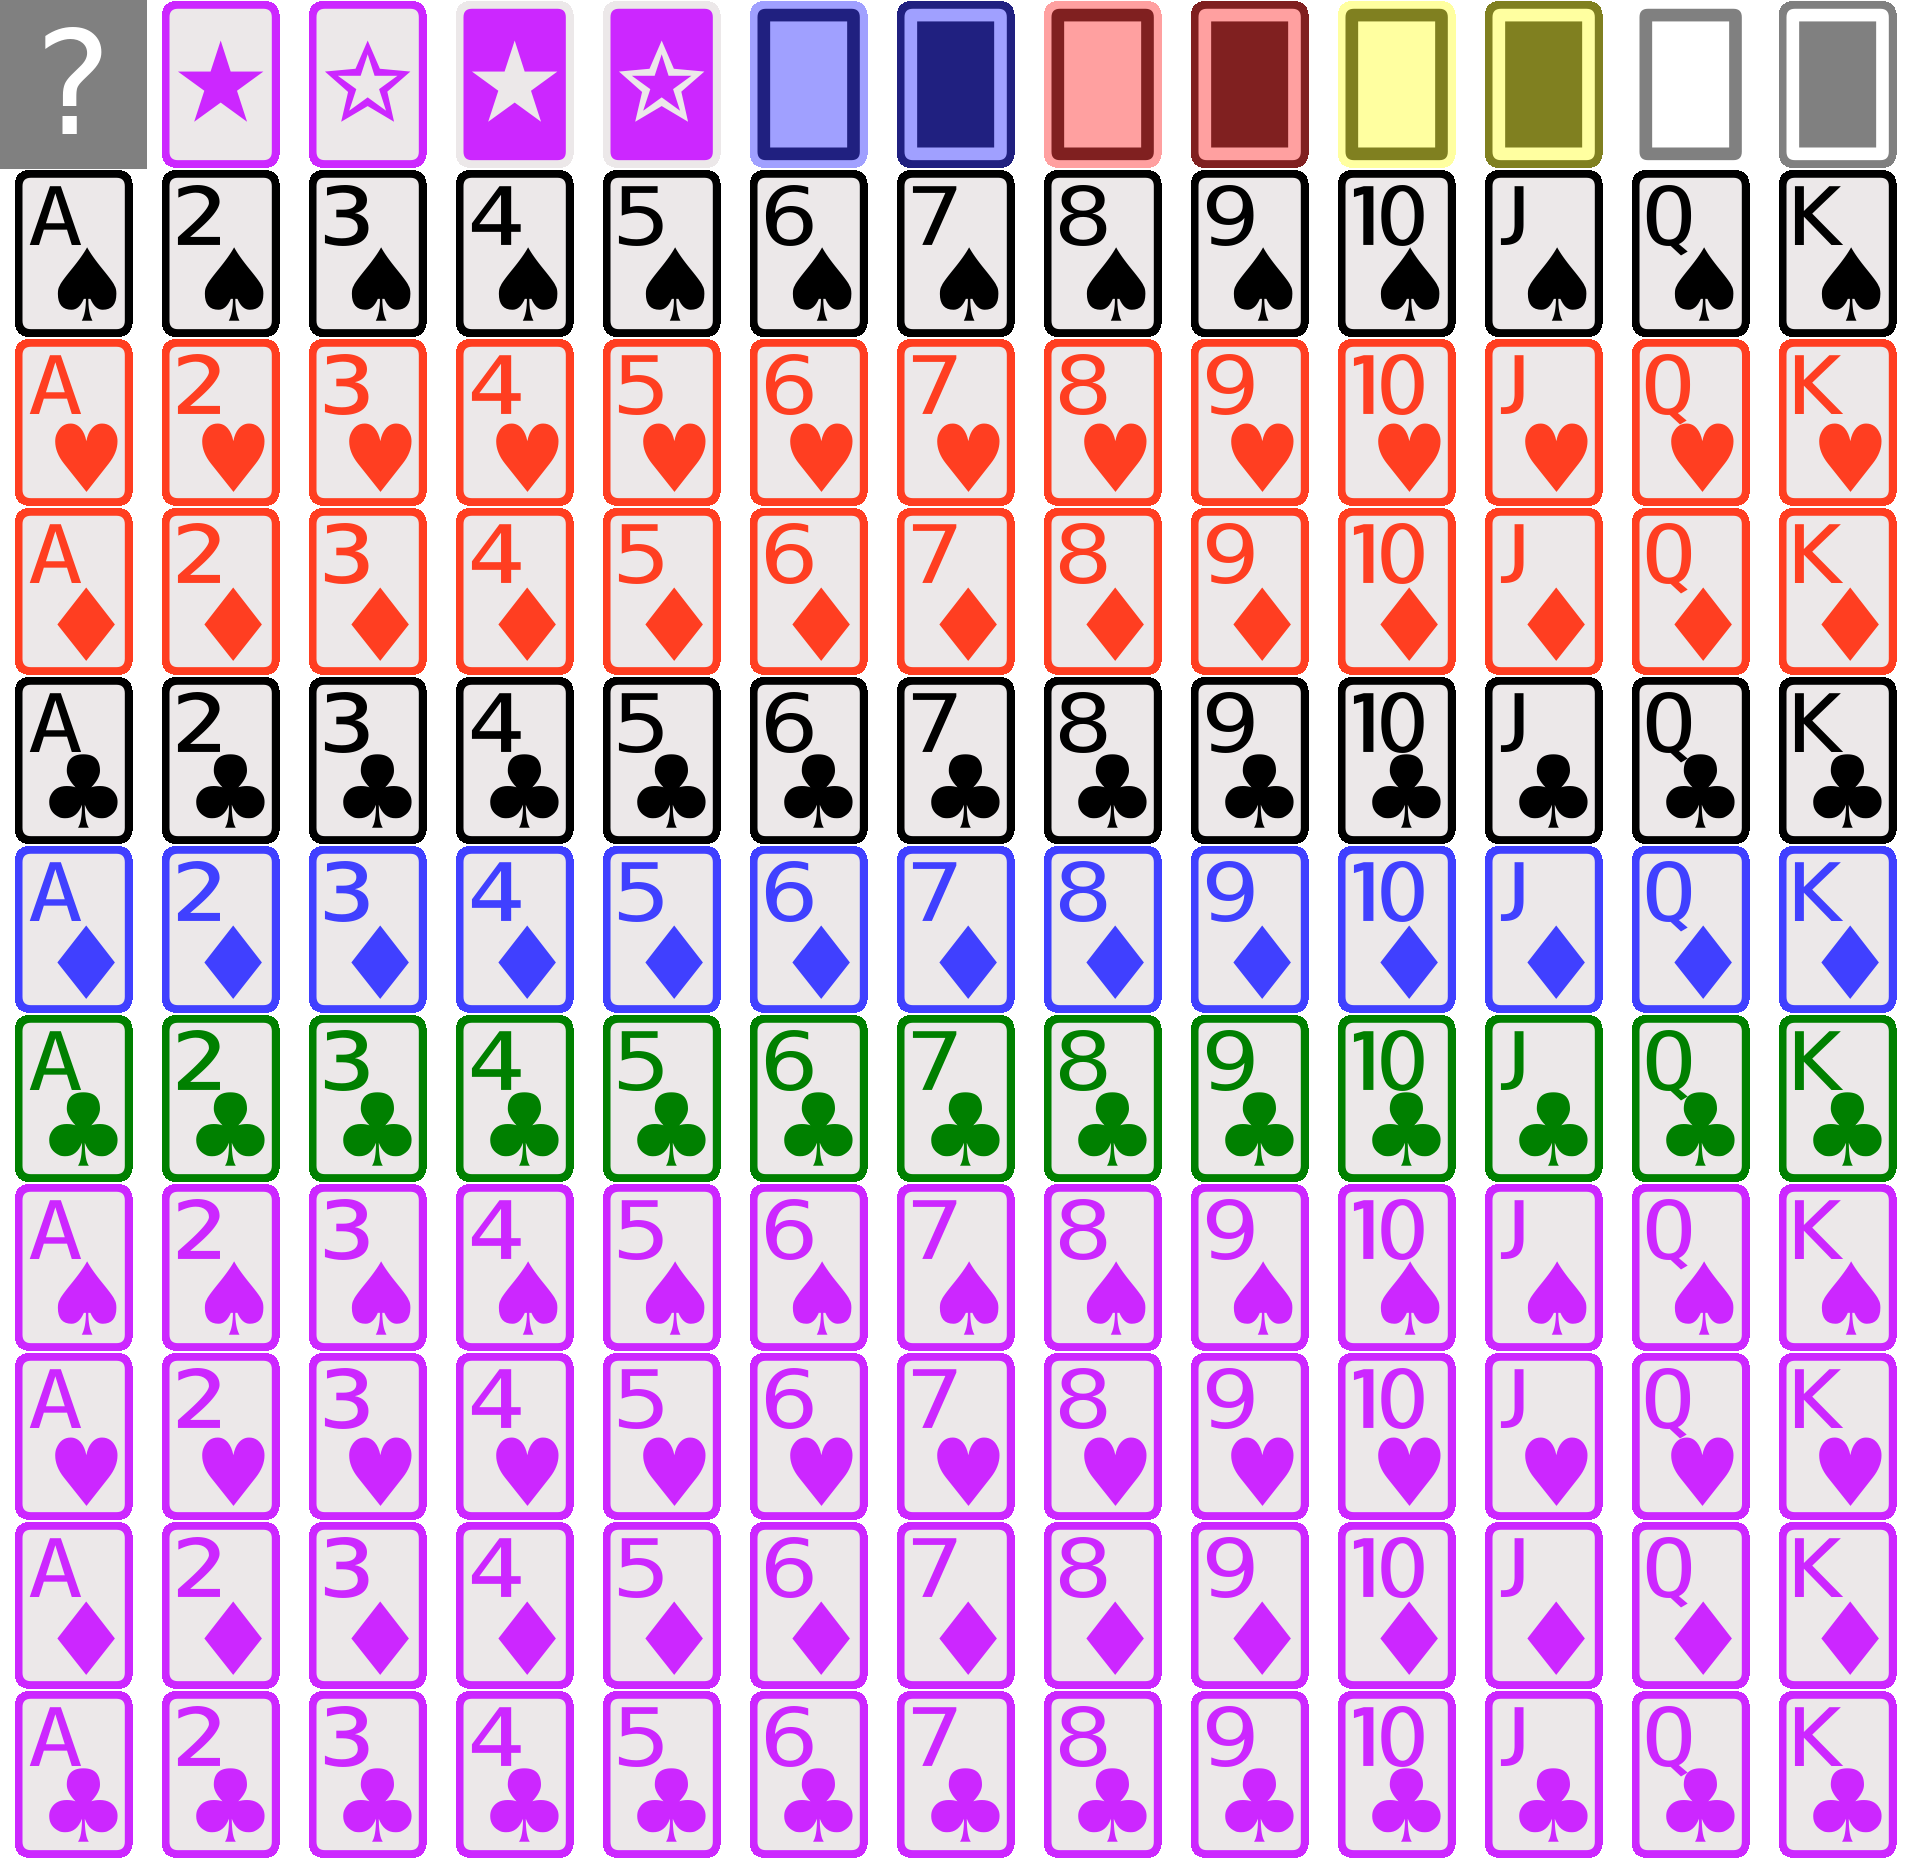
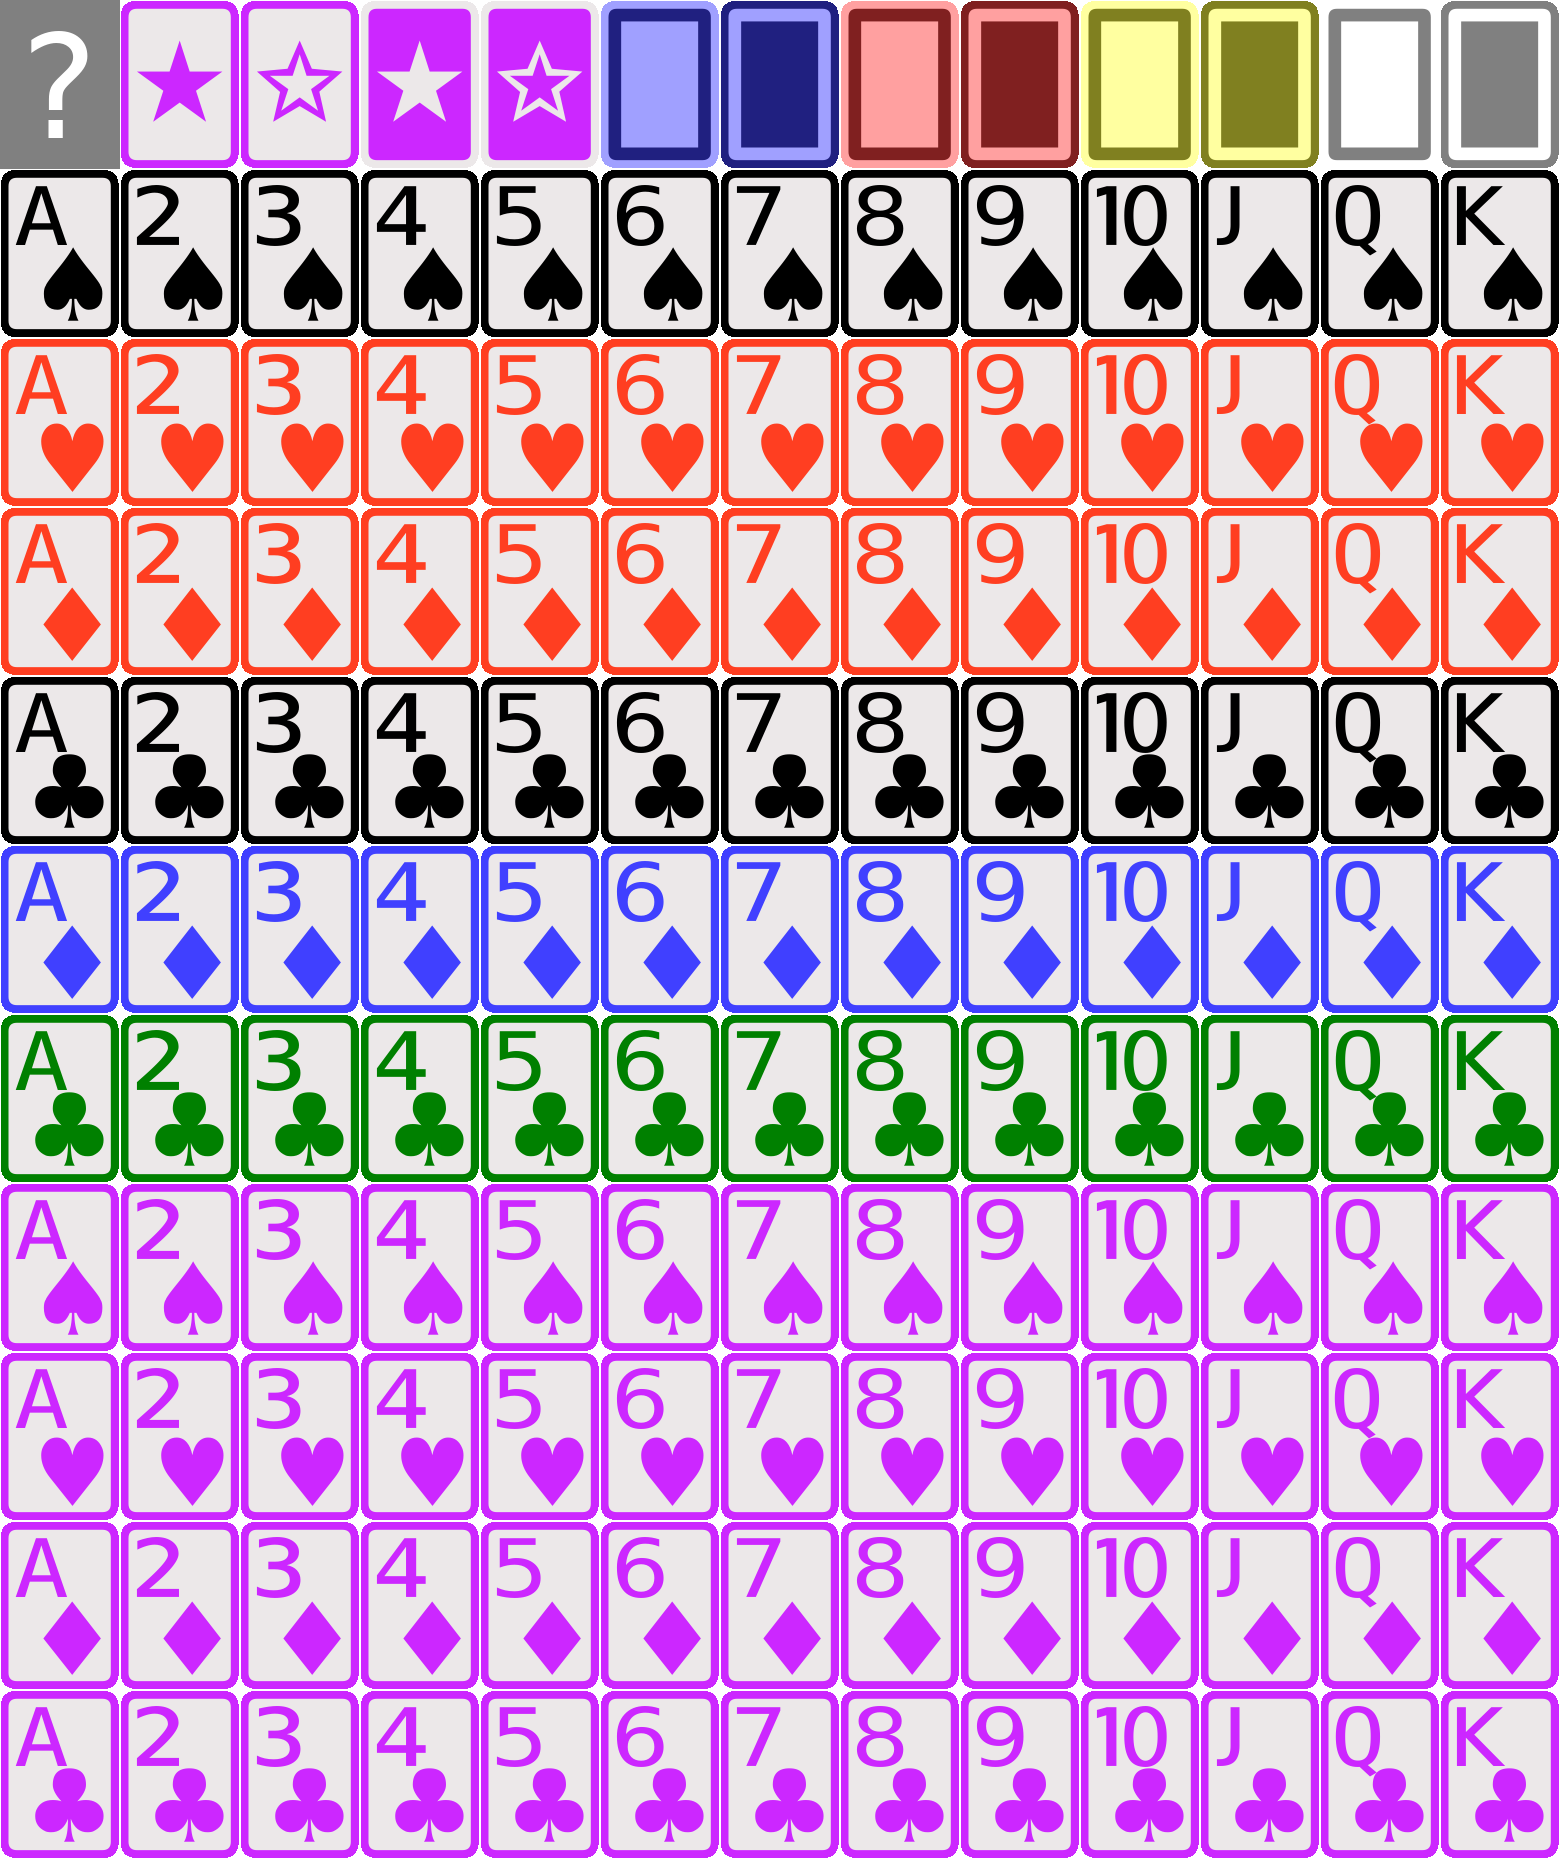
Show selected cards with highlighted card art
Replace the yellow tint overlay on selected cards with
cards-highlight.png's own pre-rendered highlighted tiles, swapped in
via CSS. Regenerate cards.png without its per-tile padding so both
sheets share the same tile geometry, and widen the gap between cards
in hand/pot rows to compensate for the tighter art.

diff --git a/src/web/style.css b/src/web/style.css
@@ -233,11 +233,11 @@ body {
 /* ---------- player panel ---------- */
 
 .panel {
-  /* 3 cards + the .hand gap between them (2 * 0.5rem) + this panel's
+  /* 3 cards + the .hand gap between them (2 * 0.75rem) + this panel's
      own left/right padding (2 * 0.85rem) — kept in lockstep with
      --card-w so panels can't visually drift out of sync with the
      cards they hold at any viewport size. */
-  width: calc(var(--card-w) * 3 + 2.7rem);
+  width: calc(var(--card-w) * 3 + 3.2rem);
   background: var(--panel);
   border: 1px solid var(--panel-border);
   border-radius: 10px;
@@ -407,13 +407,13 @@ body {
 .cards,
 .hand {
   display: flex;
-  gap: 0.5rem;
+  gap: 0.75rem;
   /* Fixed to a full 3-card hand's size (not min-height/shrink-to-fit),
      so the panel never resizes as cards are dealt, and already-placed
      cards don't shift as later ones are appended into the same
      fixed-size, left-aligned row (the parent panel centers this row,
      so a growing-width row would otherwise re-center on every card). */
-  width: calc(var(--card-w) * 3 + 1rem);
+  width: calc(var(--card-w) * 3 + 1.5rem);
   height: var(--card-h);
 }
 
@@ -435,6 +435,7 @@ body {
   position: relative;
   width: var(--card-w);
   height: var(--card-h);
+  background-image: var(--card-img);
   background-size: calc(var(--sheet-cols) * var(--card-w)) calc(var(--sheet-rows) * var(--card-h));
   background-position:
     calc(-1 * (var(--tile-col) - 1) * var(--card-w)) calc(-1 * (var(--tile-row) - 1) * var(--card-h));
@@ -473,18 +474,18 @@ body {
   transform: translateY(-6px);
 }
 
-/* Tint overlay for .is-selected, rather than a border/box-shadow ring,
-   so the selection reads as a color wash across the card face. Sits on
-   an ::after (not the card's own background) since .card already uses
-   background-image/-position for its sprite-sheet tile. */
-.card.is-selected::after {
-  content: "";
-  position: absolute;
-  inset: 0;
-  border-radius: 6px;
-  background: rgba(217, 164, 65, 0.4);
-  mix-blend-mode: multiply;
-  pointer-events: none;
+/* Swaps in cards-highlight.png's own pre-rendered highlighted art for
+   .is-selected, instead of washing cards.png's tile with a tint
+   overlay. Overrides the --card-img custom property .card's own rule
+   reads (see render.ts's tileEl()) with a plain background-image: a
+   stylesheet rule can out-specificity another stylesheet rule, but
+   never an inline style, which is why tileEl() sets --card-img rather
+   than background-image directly. background-size/-position are left
+   inherited from .card's own rule above -- cards-highlight.png shares
+   cards.png's exact tile geometry (cardSheet.ts), so no adjustment is
+   needed to line up. */
+.card.is-selected {
+  background-image: url("../../assets/cards-highlight.png");
 }
 
 /* South's whole hand, on South's first turn (domActionPrompt.ts) --

diff --git a/src/web/cardSheet.ts b/src/web/cardSheet.ts
@@ -1,12 +1,17 @@
 import type { Card, Rank, Suit } from "../card/card.ts";
 
 // assets/cards.md describes the tile sheet's layout: an 11x13 grid of
-// 147x169px tiles. Row 1 holds special tiles (unused here); every
+// 120x169px tiles. Row 1 holds special tiles (unused here); every
 // other row is one suit's A,2..9,T,J,Q,K across all 13 columns.
-export const TILE_W = 147;
+export const TILE_W = 120;
 export const TILE_H = 169;
 export const SHEET_COLS = 13;
 export const SHEET_ROWS = 11;
+
+// assets/cards-highlight.png (see specs/assets.md) mirrors cards.png's
+// geometry exactly -- same row/column layout and same tile size -- so
+// SUIT_ROW/RANK_COL and every constant above apply to both sheets
+// unchanged.
 
 // SUIT_ROW picks the tile sheet's own "4-color deck" rows (2, 3, 6, 7):
 // spades black, hearts red, diamonds blue, clubs green.

diff --git a/src/web/render.ts b/src/web/render.ts
@@ -42,7 +42,11 @@ export function initStrikeBlinkVar(): void {
 function tileEl(position: TilePosition, ariaLabel: string): HTMLElement {
   const el = document.createElement("div");
   el.className = "card";
-  el.style.backgroundImage = `url(${cardsUrl})`;
+  // Set via a custom property rather than background-image directly, so
+  // style.css's .is-selected rule (an ordinary stylesheet rule) can
+  // override it with cards-highlight.png -- an inline background-image
+  // here would always win over any stylesheet rule, selected or not.
+  el.style.setProperty("--card-img", `url(${cardsUrl})`);
   setTile(el, position, ariaLabel);
   return el;
 }

diff --git a/specs/assets.md b/specs/assets.md
@@ -6,6 +6,9 @@ Assets are stored in the assets directory. It contains:
 
 - cards.png: A tile sheet containing card images. The file, cards.md,
 describes the layout of the tile sheet.
+- cards-highlight.png: A tile sheet of highlighted/selected-card
+variants of the same cards, sharing cards.png's exact layout and tile
+size (see cards.md).
 
 ## Sound Effects
 

diff --git a/assets/cards.md b/assets/cards.md
@@ -3,8 +3,8 @@
 This is a tile sheet containing images of playing cards. The dimensions
 are as follows:
 
-- Sheet size: 1911 x 1859
-- Tile size: 147 x 169
+- Sheet size: 1560 x 1859
+- Tile size: 120 x 169
 - Columns: 13
 - Rows: 11
 
